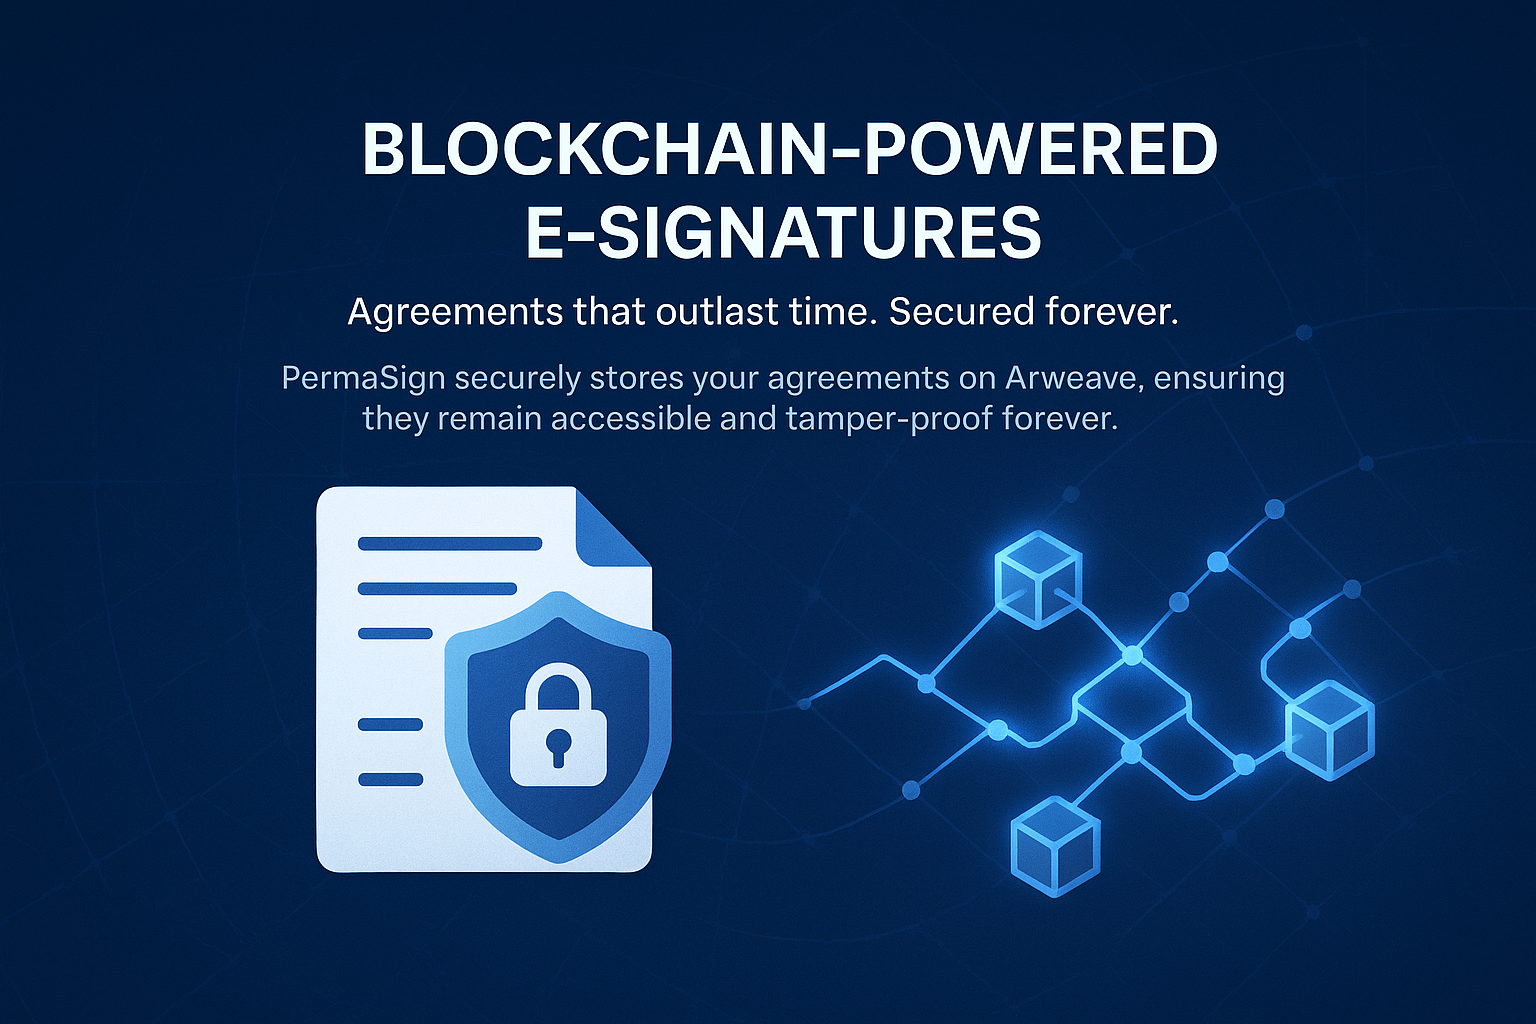
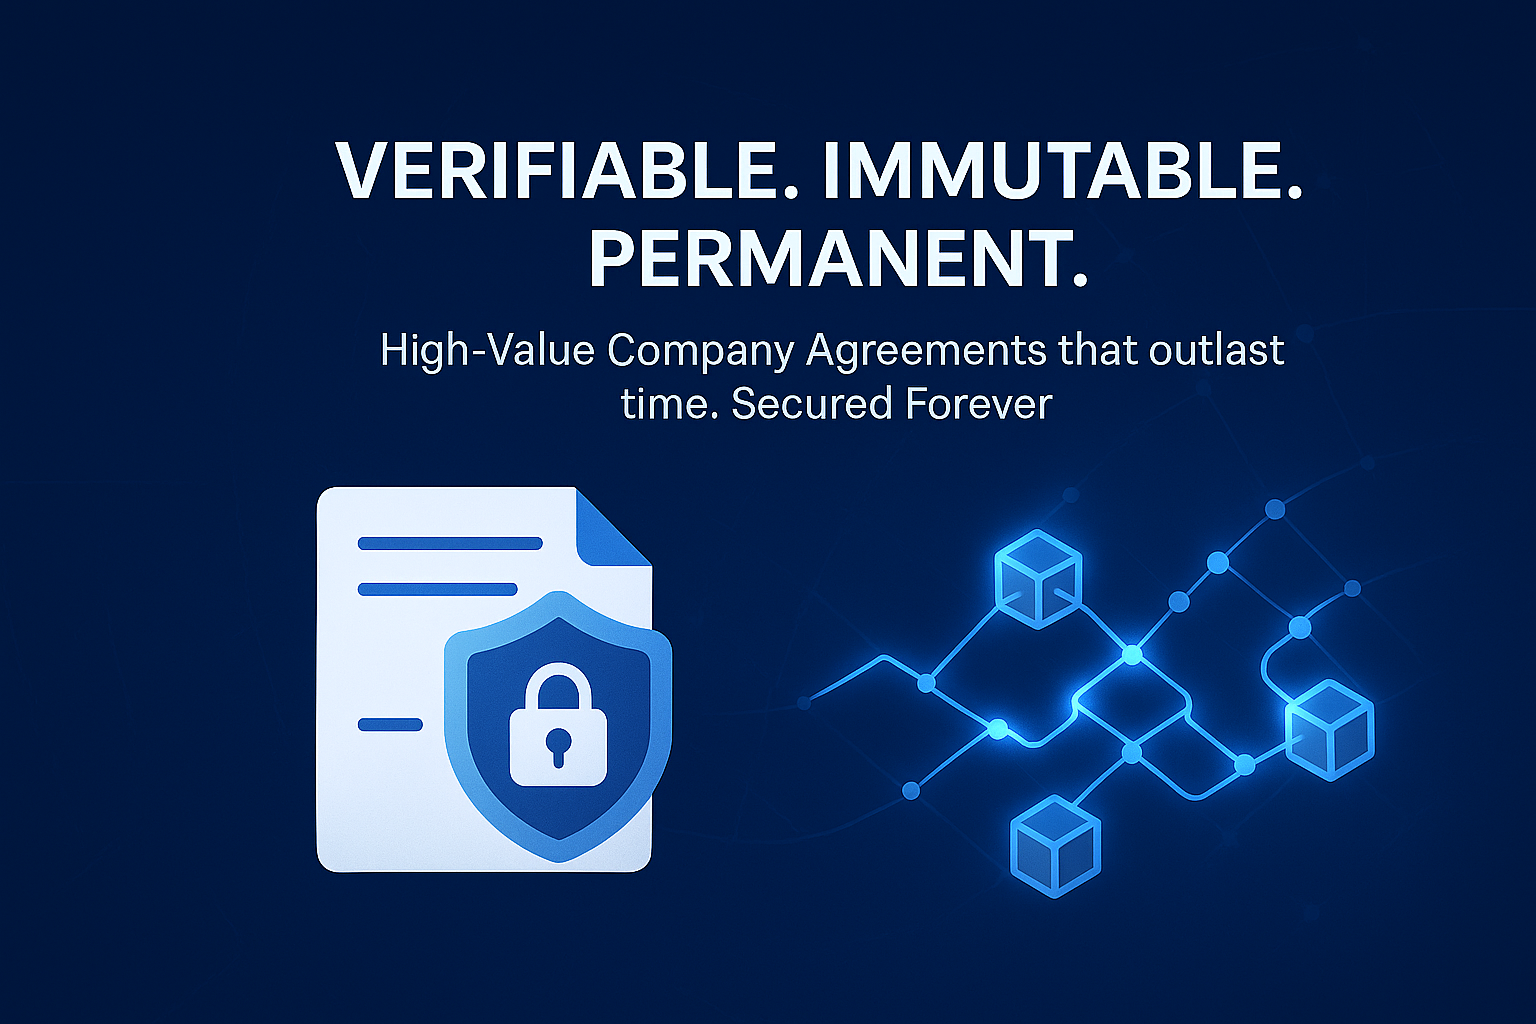
feat: ui improvements

diff --git a/src/components/landing/StatisticsTab.tsx b/src/components/landing/StatisticsTab.tsx
@@ -1,5 +1,6 @@
 import { useEffect, useState } from "react";
 import { getStatisticsClient } from "../../services/statisticsClient";
+import { AnimateOnScroll } from "../ui/animate-on-scroll";
 
 interface IStatistics {
   totalRooms: number;
@@ -7,6 +8,33 @@ interface IStatistics {
   totalDocuments: number;
   totalSignatures: number;
 }
+
+const statisticsConfig = [
+  {
+    key: "totalSignatures" as keyof IStatistics,
+    image: "./signatures.png",
+    title: "Digital Signatures",
+    description: "Completed"
+  },
+  {
+    key: "totalRooms" as keyof IStatistics,
+    image: "./rooms.png",
+    title: "Company Spaces",
+    description: "Created"
+  },
+  {
+    key: "totalDocuments" as keyof IStatistics,
+    image: "./documents.png",
+    title: "Documents",
+    description: "Uploaded"
+  },
+  {
+    key: "totalUsers" as keyof IStatistics,
+    image: "./users.png",
+    title: "Users",
+    description: "Registered"
+  }
+];
 
 export const StatisticsTab = () => {
   const [stats, setStats] = useState<IStatistics | null>(null);
@@ -29,33 +57,83 @@ export const StatisticsTab = () => {
     fetchStats();
   }, []);
 
+  const formatNumber = (num: number) => {
+    if (num >= 1000000) {
+      return (num / 1000000).toFixed(1) + "M";
+    } else if (num >= 1000) {
+      return (num / 1000).toFixed(1) + "K";
+    }
+    return num.toString();
+  };
+
   return (
-    <div className="container mx-auto py-12">
-      <h2 className="text-3xl font-bold text-center mb-8">PermaSign Statistics</h2>
-      {loading ? (
-        <p className="text-center">Loading statistics...</p>
-      ) : stats ? (
-        <div className="grid grid-cols-1 md:grid-cols-2 lg:grid-cols-4 gap-8">
-          <div className="bg-white p-6 rounded-lg shadow-md text-center">
-            <h3 className="text-2xl font-semibold">{stats.totalRooms}</h3>
-            <p className="text-gray-500">Total Rooms</p>
+    <section className="w-full py-20 md:py-28 lg:py-32 bg-muted/30">
+      <div className="container mx-auto px-4 md:px-6">
+        <AnimateOnScroll className="flex flex-col items-center justify-center space-y-4 text-center mb-16">
+          <div className="space-y-3 max-w-3xl">
+            <h2 className="text-3xl font-bold tracking-tighter sm:text-4xl md:text-5xl">
+              Platform in Numbers
+            </h2>
+            <p className="text-muted-foreground md:text-xl/relaxed">
+              Real metrics from our growing community of professionals
+            </p>
           </div>
-          <div className="bg-white p-6 rounded-lg shadow-md text-center">
-            <h3 className="text-2xl font-semibold">{stats.totalUsers}</h3>
-            <p className="text-gray-500">Total Users</p>
+        </AnimateOnScroll>
+
+        {loading ? (
+          <div className="text-center py-12">
+            <div className="inline-flex items-center justify-center">
+              <div className="animate-spin rounded-full h-8 w-8 border-b-2 border-primary"></div>
+              <span className="ml-3 text-muted-foreground">Loading statistics...</span>
+            </div>
           </div>
-          <div className="bg-white p-6 rounded-lg shadow-md text-center">
-            <h3 className="text-2xl font-semibold">{stats.totalDocuments}</h3>
-            <p className="text-gray-500">Total Documents</p>
+        ) : stats ? (
+          <div className="grid grid-cols-1 md:grid-cols-2 lg:grid-cols-4 gap-8 max-w-7xl mx-auto">
+            {statisticsConfig.map((config, _) => (
+              <AnimateOnScroll 
+                key={config.key}
+                className="group"
+              >
+                <div className="relative overflow-hidden rounded-3xl bg-background/60 backdrop-blur-sm border border-border/50 p-8 text-center hover:bg-background/80 transition-all duration-500 hover:scale-105 hover:shadow-2xl hover:shadow-primary/10">
+                  {/* Animated background gradient */}
+                  <div className="absolute inset-0 bg-gradient-to-br from-primary/5 via-transparent to-primary/10 opacity-0 group-hover:opacity-100 transition-opacity duration-500"></div>
+                  
+                  {/* Image container */}
+                  <div className="relative mb-6 mx-auto">
+                    <img 
+                      src={config.image} 
+                      alt={config.title}
+                      className="w-50 h-50 object-contain filter group-hover:scale-110 transition-transform duration-300 mx-auto"
+                    />
+                  </div>
+                  
+                  {/* Statistics */}
+                  <div className="relative space-y-3">
+                    <div className="text-4xl lg:text-5xl font-bold text-primary group-hover:text-primary/90 transition-colors duration-300">
+                      {formatNumber(stats[config.key])}
+                    </div>
+                    <div className="space-y-1">
+                      <h3 className="text-lg font-semibold text-foreground">
+                        {config.title}
+                      </h3>
+                      <p className="text-sm text-muted-foreground">
+                        {config.description}
+                      </p>
+                    </div>
+                  </div>
+                  
+                  {/* Decorative element */}
+                  <div className="absolute -top-1 -right-1 w-16 h-16 bg-gradient-to-br from-primary/20 to-transparent rounded-full blur-xl opacity-0 group-hover:opacity-100 transition-opacity duration-500"></div>
+                </div>
+              </AnimateOnScroll>
+            ))}
           </div>
-          <div className="bg-white p-6 rounded-lg shadow-md text-center">
-            <h3 className="text-2xl font-semibold">{stats.totalSignatures}</h3>
-            <p className="text-gray-500">Total Signatures</p>
+        ) : (
+          <div className="text-center py-12">
+            <p className="text-muted-foreground">Unable to load statistics at the moment.</p>
           </div>
-        </div>
-      ) : (
-        <p className="text-center text-red-500">Failed to load statistics.</p>
-      )}
-    </div>
+        )}
+      </div>
+    </section>
   );
 };

diff --git a/src/pages/ChangelogPage.tsx b/src/pages/ChangelogPage.tsx
@@ -1,10 +1,11 @@
 import { useEffect } from 'react';
 import ChangelogTimeline from '../components/ChangelogTimeline';
+import ScrollToTop from '../components/ScrollToTop';
 
 const changelogEntries = [
     {
-        version: "0.8.0",
-        date: "July 19, 2025",
+        version: "0.9.0",
+        date: "July 23, 2025",
         title: "Major UI/UX and Functionality Rehaul",
         features: [
             "Create templates with AI: Generate a complete set of roles and document types for your company by simply describing your use case.",
@@ -15,7 +16,8 @@ const changelogEntries = [
             "Complete redesign of the user interface for a more intuitive and modern experience.",
             "Fixed numerous bugs related to modals and document previews.",
             "Refactored the navigation bar and home page for better clarity.",
-            "Overhauled state management to eliminate page reloads on user operations."
+            "Overhauled state management to eliminate page reloads on user operations.",
+            "Ability to customize templates before creating a room."
         ]
     },
     {
@@ -118,6 +120,7 @@ export default function ChangelogPage() {
 
     return (
         <div className="container mx-auto max-w-4xl py-12 px-4">
+            <ScrollToTop />
             <h1 className="text-4xl font-bold tracking-tighter text-center mb-10">PermaSign Changelog</h1>
             <ChangelogTimeline entries={changelogEntries} />
         </div>

diff --git a/src/components/landing/FeaturesSection.tsx b/src/components/landing/FeaturesSection.tsx
@@ -5,17 +5,17 @@ const features = [
   {
     icon: <Lock className="h-8 w-8 text-primary" />,
     title: "Immutable Records",
-    description: "Documents stored on Arweave are permanent and tamper-proof, providing a verifiable, single source of truth.",
+    description: "Documents stored on PermaSign are untouchable and tamper-proof.",
   },
   {
     icon: <Shield className="h-8 w-8 text-primary" />,
     title: "Enterprise-Grade Security",
-    description: "End-to-end encryption combined with Google Cloud KMS ensures your sensitive documents are always protected.",
+    description: "End-to-end encryption ensures your sensitive documents are always protected.",
   },
   {
     icon: <Users className="h-8 w-8 text-primary" />,
     title: "Secure Collaboration",
-    description: "Invite members, define roles, and manage permissions in a secure, auditable environment.",
+    description: "Invite members and define roles in a secure, auditable environment.",
   },
   {
     icon: <Zap className="h-8 w-8 text-primary" />,
@@ -25,7 +25,7 @@ const features = [
   {
     icon: <Clock className="h-8 w-8 text-primary" />,
     title: "Permanent Audit Trail",
-    description: "Every action is recorded on-chain, creating a permanent and transparent audit trail for compliance.",
+    description: "Every action is recorded permanently, creating a transparent audit trail for compliance.",
   },
   {
     icon: <Globe className="h-8 w-8 text-primary" />,

diff --git a/src/components/landing/HowItWorksSection.tsx b/src/components/landing/HowItWorksSection.tsx
@@ -9,8 +9,8 @@ const steps = [
   },
   {
     icon: <Users className="h-8 w-8 text-primary" />,
-    title: "2. Invite Members & Set Roles",
-    description: "Invite team members, investors, or legal counsel to the room. Assign roles with specific permissions to control who can view or sign documents.",
+    title: "2. Invite Signers & Set Roles",
+    description: "Invite team members, investors, or legal counsel to the room. Assign roles with specific permissions to control who can upload or sign documents.",
   },
   {
     icon: <PenSquare className="h-8 w-8 text-primary" />,
@@ -20,7 +20,7 @@ const steps = [
   {
     icon: <ShieldCheck className="h-8 w-8 text-primary" />,
     title: "4. Permanent, Auditable Storage",
-    description: "Once signed, the document is permanently stored on Arweave. A complete, unchangeable audit trail is available for compliance and verification.",
+    description: "Once signed, the document and the signature are permanently stored. A complete, unchangeable audit trail is available for compliance and verification.",
   },
 ]
 

diff --git a/src/components/landing/SecuritySection.tsx b/src/components/landing/SecuritySection.tsx
@@ -4,9 +4,9 @@ import { Button } from "../ui/button"
 import { Link } from "react-router-dom"
 
 const securityFeatures = [
-  "End-to-end document encryption (AES-256-GCM)",
-  "Master key protection via Google Cloud KMS",
-  "Immutable, permanent storage on the Arweave blockchain",
+  "End-to-end document encryption",
+  "Master key protection",
+  "Immutable, permanent storage on the blockchain",
   "On-chain, verifiable audit trails for all actions",
   "Secure, role-based access control for team members",
   "Cryptographically secure signatures via Arweave wallets",
